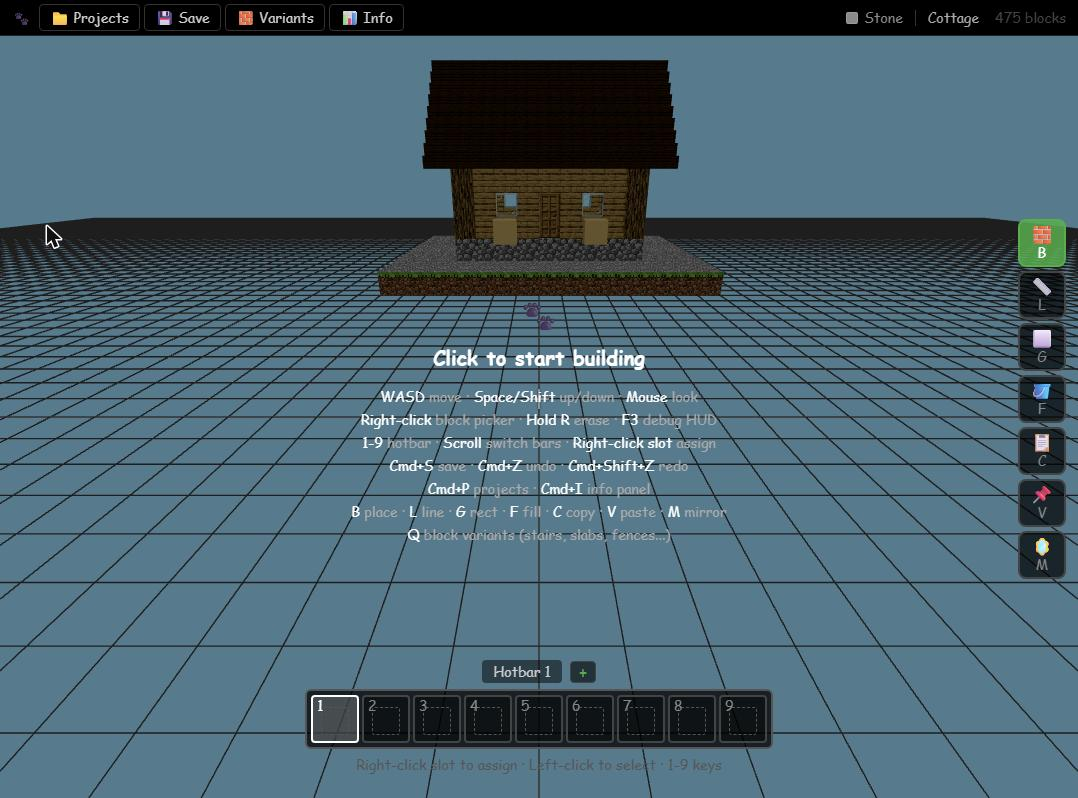
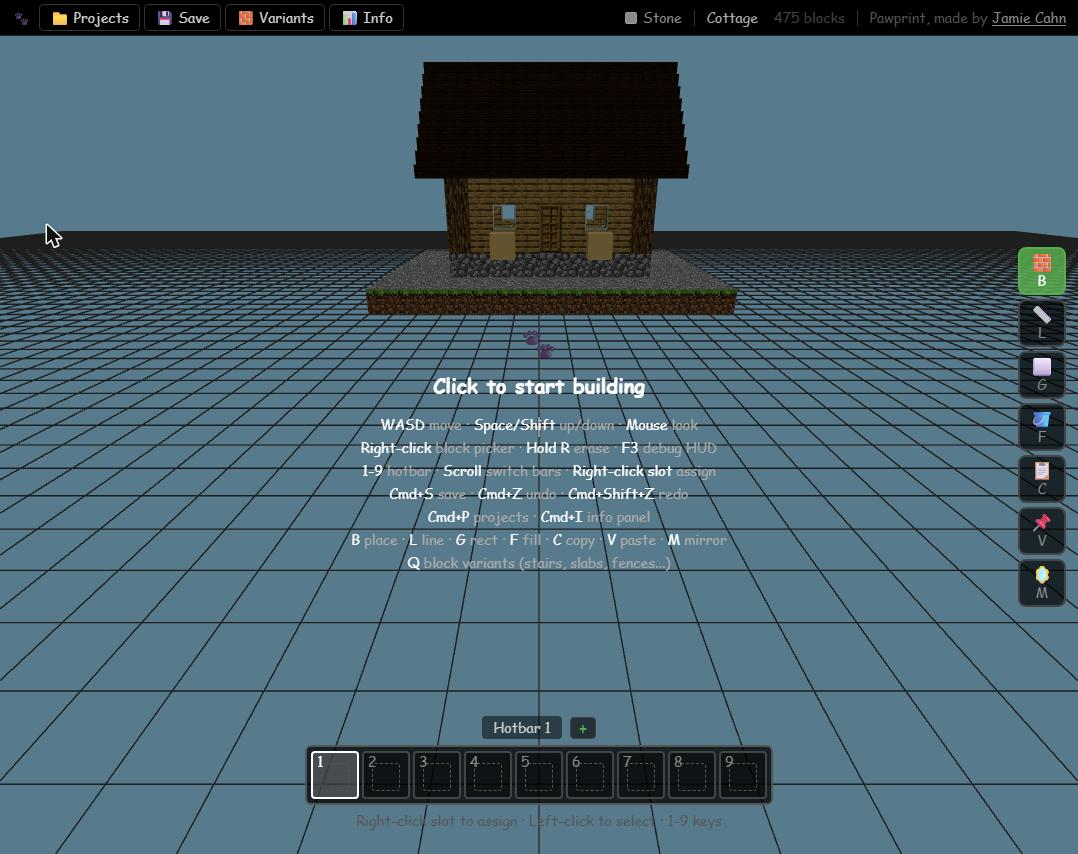
docs: update README and screenshots, add CHANGELOG.json

diff --git a/README.md b/README.md
@@ -4,6 +4,8 @@
 
 **Live: https://pawprint.jamiecahn.com**
 
+Pawprint, made by [Jamie Cahn](https://jamiecahn.com).
+
 ![PawPrint editor showing a cottage build with the tool bar and hotbar](docs/editor.jpg)
 
 ---
@@ -21,7 +23,7 @@
 
 ## Why I built it
 
-> **TODO (Jamie):** 2–3 sentences on the problem and who it's for. For example: what was painful about planning builds before, and who you had in mind (survival builders? server teams?).
+I built Pawprint to learn how to make games that run in the browser with TypeScript, and a Minecraft schematic builder turned out to be a fun way to do it: real-time 3D, a block palette, undo history and file export. I'm still actively updating it as new ideas come up.
 
 ## How to use it
 
@@ -49,7 +51,7 @@ Undo is **Ctrl/Cmd+Z**, redo is **Ctrl/Cmd+Shift+Z** or **Ctrl/Cmd+Y**, and **F3
 - Optional, for block textures: `bash`, `curl`, `python3` and `unzip`
 
 ```bash
-git clone <repo-url>
+git clone https://github.com/jcahnProgramming/pawprint
 cd pawprint
 npm ci
 ```
@@ -66,7 +68,11 @@ npm ci
 
 ```bash
 npm run dev        # http://localhost:3000
+npm run lint       # ESLint
+npx tsc --noEmit   # type-check
 ```
+
+`npm run build` also runs the type-check and lint, and fails if either reports an error.
 
 **Production build**
 
@@ -98,8 +104,8 @@ The image is a multi-stage build. It installs dependencies, downloads the 1.21.4
 | Area | What |
 |---|---|
 | Language | TypeScript 5 |
-| Framework | Next.js 14.2 (App Router), React 18 |
-| 3D | three.js 0.183, @react-three/fiber 8, @react-three/drei 9 |
+| Framework | Next.js 15.5 (App Router), React 19 |
+| 3D | three.js 0.183, @react-three/fiber 9, @react-three/drei 10 |
 | State | Zustand 5 |
 | Storage | IndexedDB via `idb` 8, plus `localStorage` for the material checklist |
 | File formats | Hand-written NBT writer for `.litematic`, gzip via `pako` |
@@ -110,11 +116,12 @@ The image is a multi-stage build. It installs dependencies, downloads the 1.21.4
 
 ```
 app/                 Next.js routes: landing page (/) and the editor (/editor)
+components/          Shared UI (the "made by" credit)
 components/editor/   Editor UI: 3D scene, block meshes, toolbar, hotbar, picker, panels, HUD
 lib/                 Block catalogue, variants and geometry, textures, file formats,
                      .litematic NBT writer, IndexedDB project store, material stats
 store/               Zustand editor store: blocks, tools, hotbars, undo/redo, projects
-scripts/             Texture download/extract scripts and the deploy script
+scripts/             Texture download/extract scripts
 docs/                README screenshots
 Dockerfile           Multi-stage production image
 docker-compose.yml   Runs the image on port 3010
@@ -150,7 +157,8 @@ No. There are no accounts, no backend and no analytics in the code.
 
 - `.litematic`, `.schem` and `.schematic` **import** isn't implemented yet, and neither is `.schem` / `.schematic` **export** (they're stubs in `lib/fileFormats.ts`).
 - Mirror reflects the **whole build** (not a selection) across its own bounding box and adds the reflected copy. Mirrored blocks lose their variant shape (they become full blocks).
-- The production build skips type-checking and linting (`next.config.mjs` sets `ignoreBuildErrors` and `ignoreDuringBuilds`). `tsc` and `next lint` currently report errors.
+- Export uses the last saved copy of a project, not unsaved edits.
+- The Materials checklist is stored once per browser, not per project, so it carries over between projects.
 - There are no automated tests.
 
 ## Built with AI
